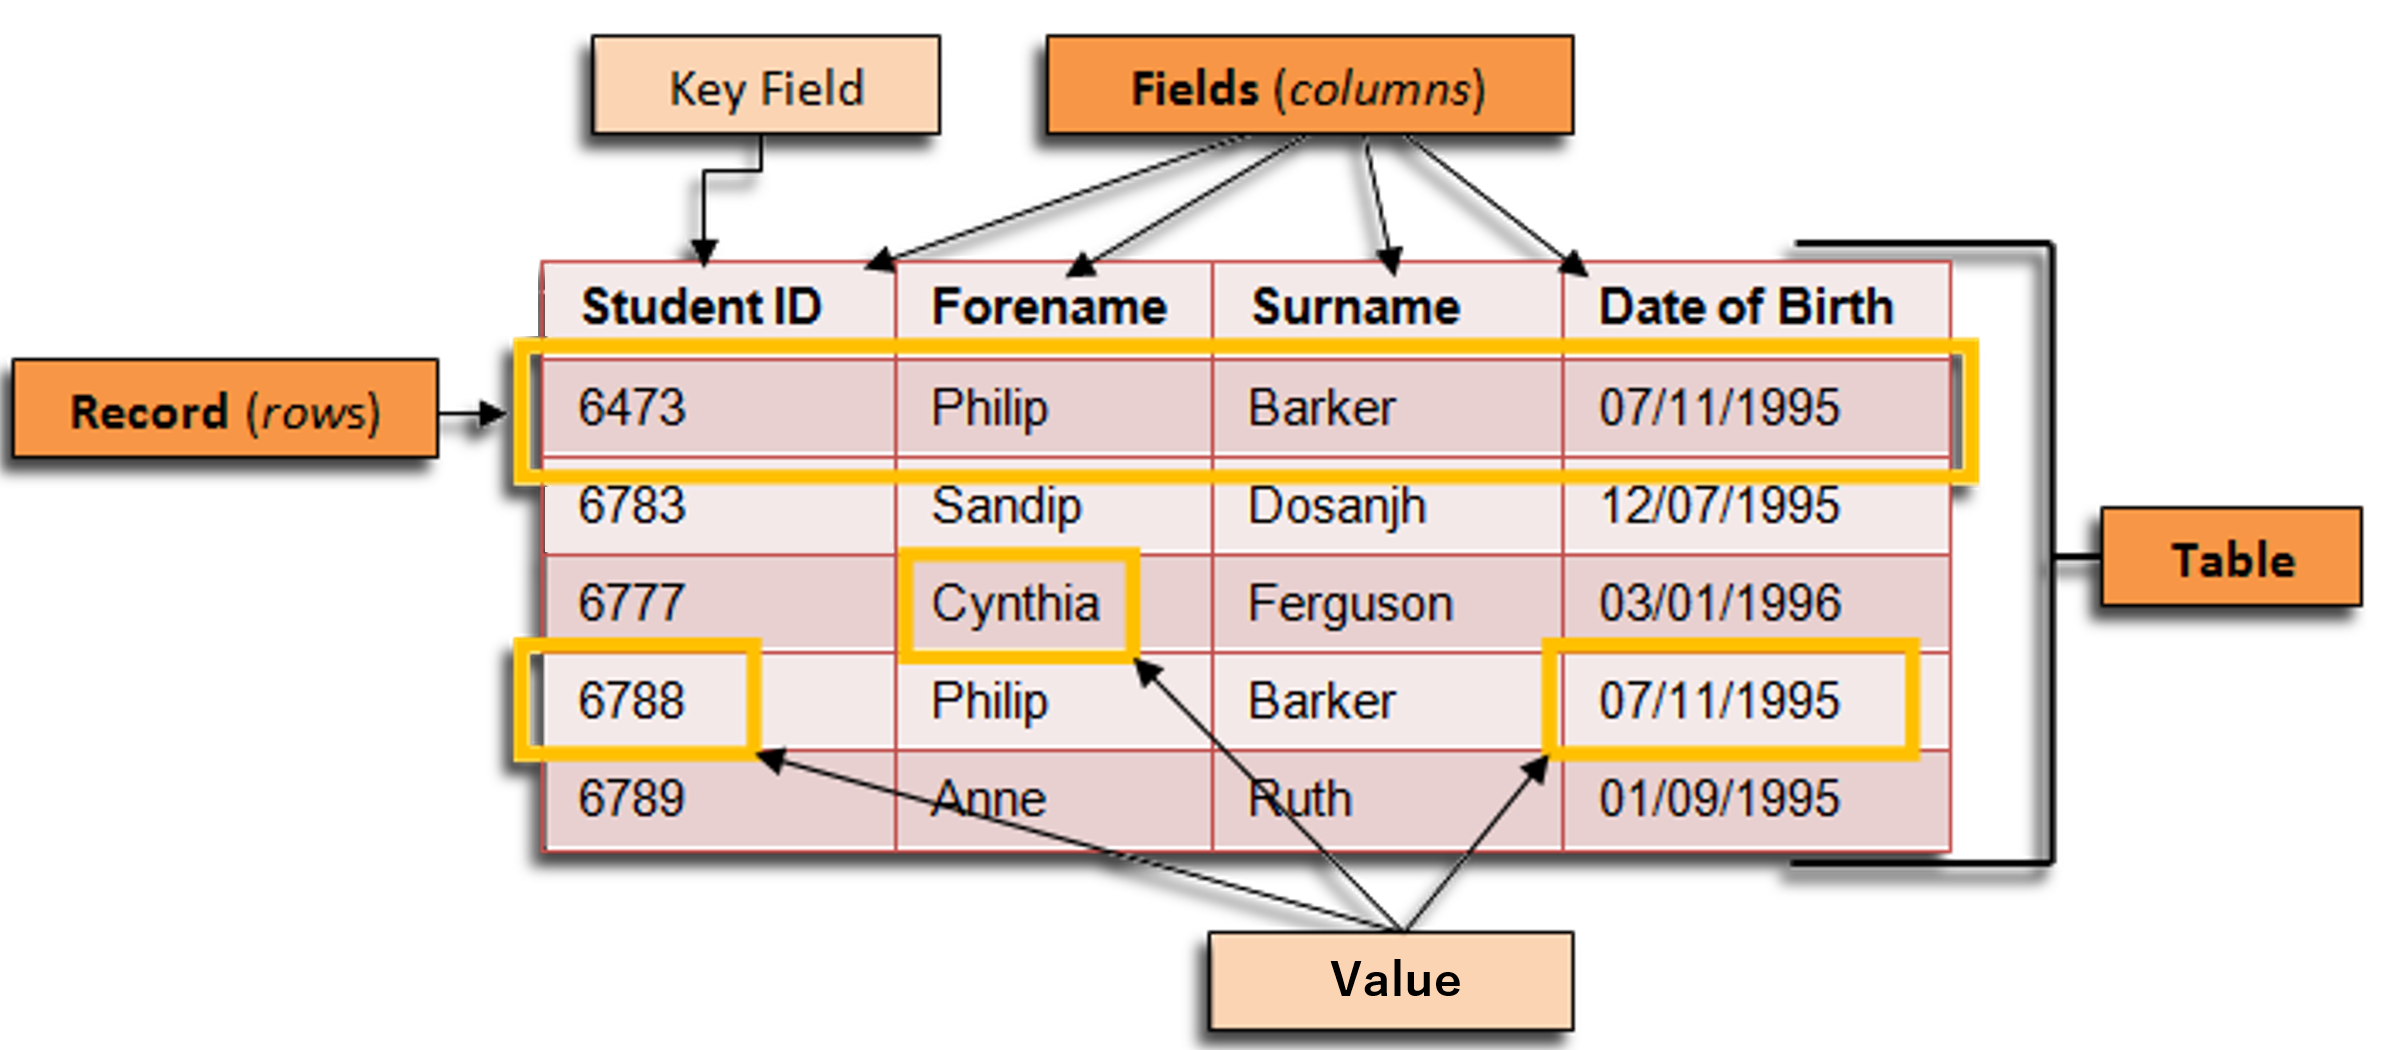
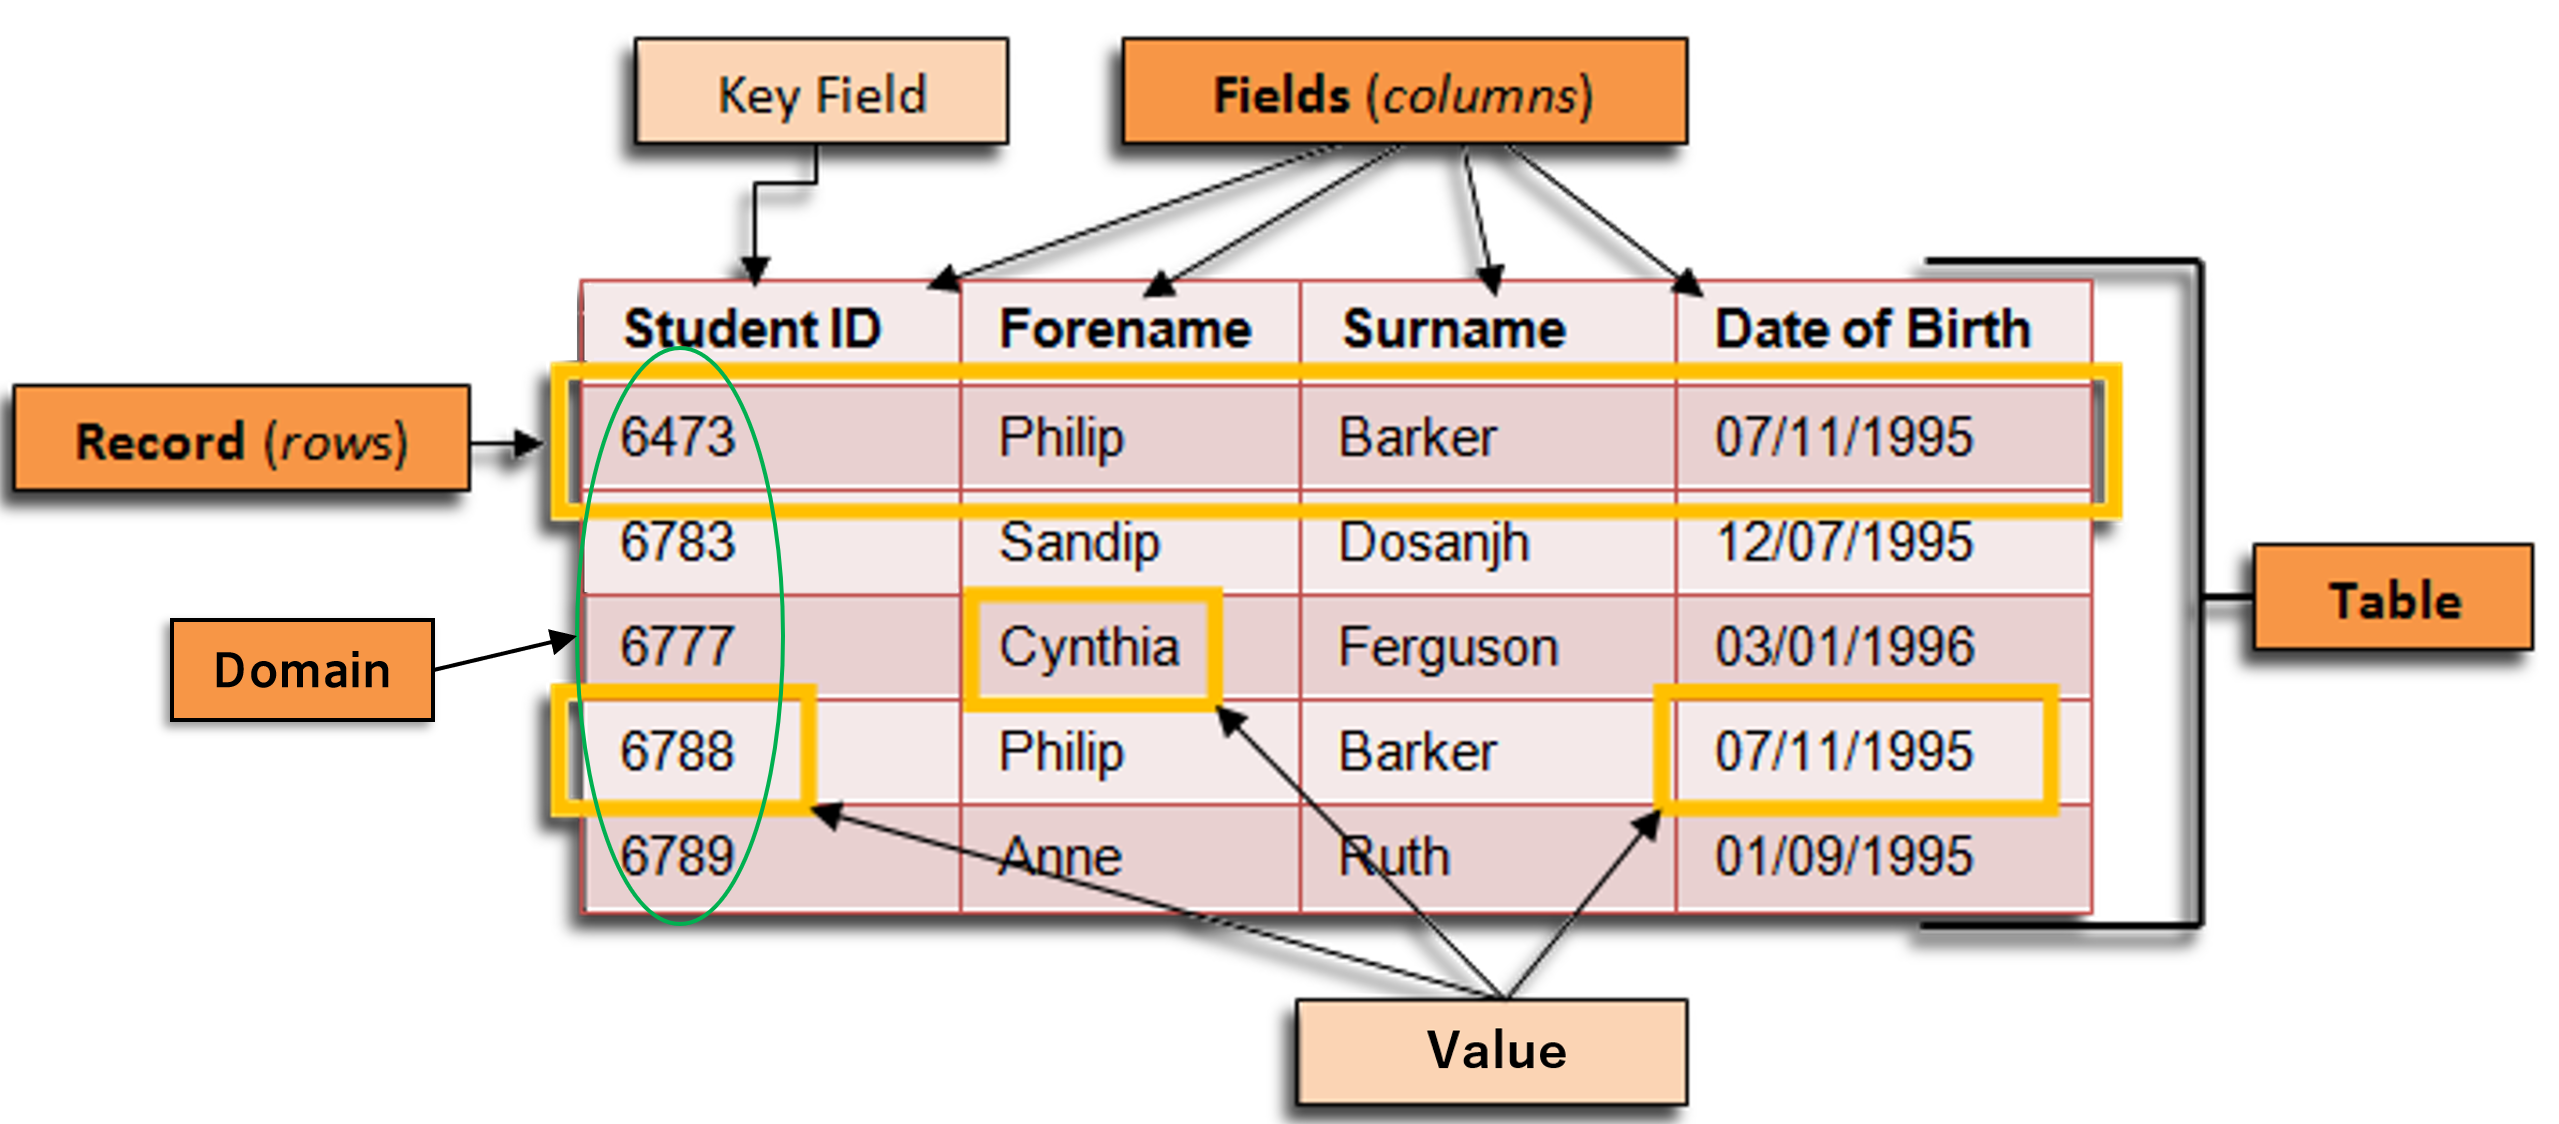
relational model

diff --git a/stem/it/computer-science/data-management/database-system/data-model/logical-data-model/relational-model/relational-model.md b/stem/it/computer-science/data-management/database-system/data-model/logical-data-model/relational-model/relational-model.md
@@ -5,13 +5,31 @@
 <div align="center"><img src="./image/relation-schema.png" width="40%"></div>
 
 # [Keys](../../database-system.md#element) in Relational Model
-- ### Super Key
-- ### Candidate Key
-- ### Primary Key
-- ### Alternate Key (Secondary Key)
-- ### Unique Key
-- ### Composite Key
-- ### Foreign Key
+<div align="center">
+<img src="./image/keys.png" width="40%"><br><br>
+
+|Keys|Definition|
+|:---:|:---:|
+|**Super Key**|Any column or combination of columns that can uniquely identify a row within a table|
+|**Candidate Key**|A minimal super key that contains no redundant columns|
+|**Primary Key**|The specific Candidate Key selected by the designer to uniquely identify each row in a table|
+|**Alternate Key (Secondary Key)**|All Candidate Keys that were not chosen as the Primary Key|
+|**Unique Key**|A database constraint that enforces uniqueness on a column or a set of columns|
+|**Foreign Key**|A column or a set of columns used to establish a logical link between the data in two tables|
+|**Composite Key**|A key that consists of two or more columns combined together|
+</div>
+
+- ### Relationship of Keys
+    <img src="./image/relationship-of-keys.png" width="25%">
+
+# Relational Query Languages
+- ### Procedural Query Language
+    - ### [Relational Algebra](./relational-query-languages/relational-algebra.md)
+- ### Non-procedural Query Language
+    - ### Relational Calculus
+        - #### Tuple Relational Calculus (TRC)
+        - #### Domain Relational Calculus (DRC)
+- ### Relational Completeness
 
 # Database Normalization
 - ### [Normal Forms](normal-forms.md)

diff --git a/stem/it/computer-science/data-management/database-system/database-system.md b/stem/it/computer-science/data-management/database-system/database-system.md
@@ -2,7 +2,7 @@
 <div align="center"><img src="./image/dbms.png" width="55%"></div>
 
 - ### Query Language
-    - #### [Structured Query Language (SQL)](/stem/it/coding/query-language/sql.md)
+    - #### [Structured Query Language (SQL)](/stem/it/coding/query-language/sql/sql.md)
 - ### Database Engine：a software that DBMS uses to [CRUD](#crud) data from database
     - #### Query Processor
 - ### Database Schema
@@ -20,16 +20,19 @@
 
 # Element
 <div align="center">
-<img src="./image/database-element.png" width="70%">
+<img src="./image/database-element.png" width="40%"><br><br>
 
 |Element|Definition|
 |:---:|:---:|
-|**Table**|a collection of data organized in rows and columns|
-|**Record, Row, Tuple, Object, Entity**|a horizontal entry|
-|**Field, Column, Attribute**|a vertical category|
-|**Key, Key Attribute, Key Field, Id**|a unique identifier of data|
-|**Value**|the specific data content identified or accessed by a key|
+|**Table**|A collection of data organized in rows and columns|
+|**Record, Row, Tuple, Object, Entity**|A horizontal entry|
+|**Field, Column, Attribute**|A vertical category|
+|**Key, Key Attribute, Key Field, Id**|A unique identifier of data|
+|**Value**|The specific data content identified or accessed by a key|
+|**Atomic Value**|A single, indivisible value within a database column that cannot be further subdivided or decomposed|
+|**Domain**|The set of all atomic values that a specific attribute can hold|
 </div>
+
 
 # Key–Value Database
 

diff --git a/stem/it/computer-science/data-management/database-system/data-model/conceptual-data-model/er-model.md b/stem/it/computer-science/data-management/database-system/data-model/conceptual-data-model/er-model.md
@@ -31,15 +31,20 @@
 # Relationship
 |Relationship|Definition|Figure|
 |:---:|:---:|:---:|
-|**Non-Identifying Relationship**|A relationship that connects strong entities|<img src="./image/relationship.png" width="30%"><br>Diamond|
-|**Identifying Relationship**|A relationship that connects a weak entity to its owner entity|<img src="./image/identifying-relationship.png" width="30%"><br>Double-lined Diamond|
+|**Non-Identifying Relationship<br>(Strong Relationship)**|A relationship that connects strong entities|<img src="./image/relationship.png" width="30%"><br>Diamond|
+|**Identifying Relationship<br>(Weak Relationship)**|A relationship that connects a weak entity to its owner entity|<img src="./image/identifying-relationship.png" width="30%"><br>Double-lined Diamond|
 
 # Notation
 - ### Chen Notation
 - ### Crow's Foot Notation
 
 # Cardinality Constraint
-- ### One-to-One (1:1)
-- ### One-to-Many (1:M)
-- ### Many-to-One (M:1)
-- ### Many-to-Many (M:N)
+- ### Cardinality Ratio (Mapping Cardinality)
+    - ### One-to-One (1:1)
+    - ### One-to-Many (1:M)
+    - ### Many-to-One (M:1)
+    - ### Many-to-Many (M:N)
+
+# Participation Constraints
+- ### Total Participation
+- ### Partial Participation

diff --git a/stem/it/computer-science/data-management/data-management.md b/stem/it/computer-science/data-management/data-management.md
@@ -1,7 +1,7 @@
 # [Database System](./database-system/database-system.md)
 - ### [Entity-Relationship Model (ER Model)](./database-system/data-model/conceptual-data-model/er-model.md)
 - ### [Relational Model](./database-system/data-model/logical-data-model/relational-model/relational-model.md)
-- ### [Structured Query Language (SQL)](/stem/it/coding/query-language/sql.md)
+- ### [Structured Query Language (SQL)](/stem/it/coding/query-language/sql/sql.md)
 - ### [Integrity Constraints](./database-system/data-integrity/integrity-constraints.md)
 
 # Spreadsheet

diff --git a/stem/it/computer-science/data-management/database-system/data-model/logical-data-model/relational-model/relational-query-languages/relational-algebra.md b/stem/it/computer-science/data-management/database-system/data-model/logical-data-model/relational-model/relational-query-languages/relational-algebra.md
@@ -1,0 +1,19 @@
+# Projection
+- ### Duplicate Elimination
+
+# Join
+|Join|Symbol|Definition|
+|:---:|:---:|:---:|
+|**Cross Join ([Cartesian Product](/stem/math/discrete-mathematics/set-theory/set-theory.md#cartesian-product))**|$\times$|
+|**Theta Join**|
+|**Equi Join**|
+|**Natural Join**|$\Join$|
+
+# [Set Operations](/stem/math/discrete-mathematics/set-theory/set-theory.md#set-operations)
+|Join|Symbol|Definition|
+|:---:|:---:|:---:|
+|**Union**|$\cup$||
+|**Intersection**|$\cap$||
+|**Set Difference**|$-$||
+
+# Division

diff --git a/stem/it/coding/coding.md b/stem/it/coding/coding.md
@@ -24,7 +24,7 @@
 - ### [Cascading Style Sheets (CSS)](./style-sheet-language/css/css.md)
 
 # Query Language
-- ### [Structured Query Language (SQL)](./query-language/sql.md)
+- ### [Structured Query Language (SQL)](./query-language/sql/sql.md)
 
 # Data Serialization
 - ### [Extensible Markup Language (XML)](./data-serialization/xml/xml.md)

diff --git a/stem/it/coding/query-language/sql/sql.md b/stem/it/coding/query-language/sql/sql.md
@@ -1,5 +1,3 @@
-
-
 # Sub-Languages of SQL
 - ### Data Query Language (DQL)
 - ### Data Definition Language (DDL)
@@ -7,3 +5,9 @@
 - ### Data Control Language (DCL)
 - ### Transaction Control Language (TCL)
 
+# SQL Joins
+- ### Inner Join
+- ### Left (Outer) Join
+- ### Right (Outer) Join
+- ### Full (Outer) Join
+- ### Self Join
